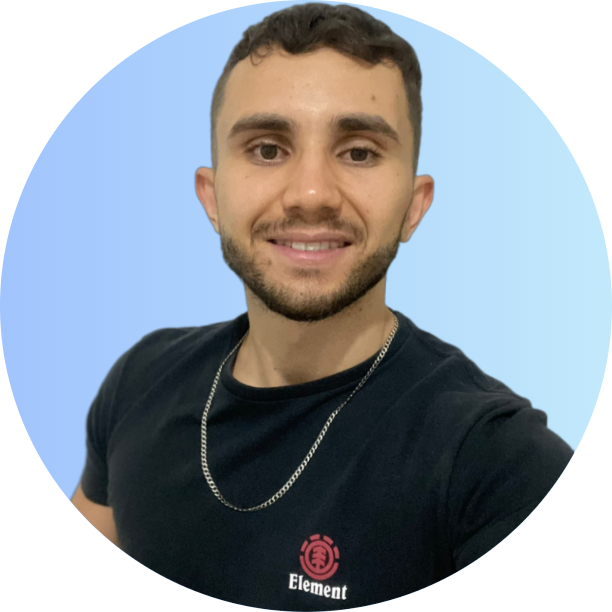
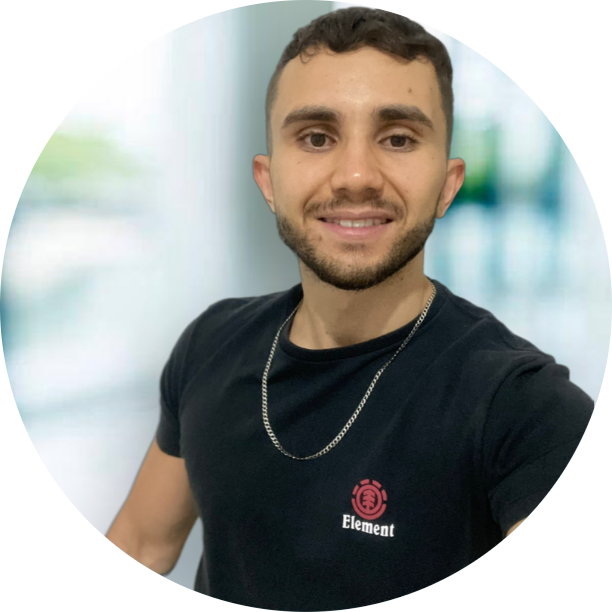
feat: adicionando animacoes e trocando imagens

diff --git a/styles.css b/styles.css
@@ -6,7 +6,7 @@
 
 :root {
   --text-color: white;
-  --bg-url: url("./assets/bg-mobile-black.jpg");
+  --bg-url: url("./assets/bg-mobile-dark.jpg");
   --stroke-color: rgba(255, 255, 255, 0.5);
   --surface-color: rgba(255, 255, 255, 0.5);
   --surface-color-hover: rgba(0, 0, 0, 0.02);
@@ -16,7 +16,7 @@
 
 .light {
   --text-color: black;
-  --bg-url: url("./assets/bg-mobile-white.jpg");
+  --bg-url: url("./assets/bg-mobile-light.jpg");
   --stroke-color: rgba(0, 0, 0, 0.5);
   --surface-color: rgba(0, 0, 0, 0.05);
   --surface-color-hover: rgba(0, 0, 0, 0.02);
@@ -30,6 +30,7 @@ body {
   background-position: top center;
   background-size: cover; */
   background: var(--bg-url) no-repeat top center/cover;
+  height: 100vh;
 }
 
 body * {
@@ -76,11 +77,16 @@ body * {
   left: 0;
   z-index: 1;
   transform: translateY(-50%);
+
+  animation: slide-back 0.4s;
 }
 
 .light #switch button {
-  right: 0;
-  left: initial;
+  animation: slide-in 0.4s forwards;
+}
+
+#switch button:hover {
+  outline: 8px solid var(--highlight-color);
 }
 
 #switch span {
@@ -153,4 +159,31 @@ footer {
   padding: 24px 0;
   text-align: center;
   font-size: 14px;
+}
+
+@media (min-width: 700px) {
+  :root {
+    --bg-url: url("./assets/bg-desktop-dark.jpg");
+  }
+  .light {
+    --bg-url: url("./assets/bg-desktop-light.jpg");
+  }
+}
+
+@keyframes slide-in {
+  from {
+    left: 0;
+  }
+  to {
+    left: 50%;
+  }
+}
+
+@keyframes slide-back {
+  from {
+    left: 50%;
+  }
+  to {
+    left: 0;
+  }
 }

diff --git a/index.html b/index.html
@@ -17,11 +17,11 @@
   <body>
     <div id="container">
       <div id="profile">
-        <img src="./assets/avatar-dark.jpeg"/ alt="avatar"/>
+        <img src="./assets/avatar-light.png"/ alt="avatar"/>
         <p>Erick piazza</p>
       </div>
       <div id="switch" onclick="toggleMode()">
-        <button onclick="toggleMode()"></button>
+        <button></button>
         <span></span>
       </div>
 
@@ -30,7 +30,9 @@
           <a href="https://github.com/erickpiazza" target="_blank">Github</a>
         </li>
         <li>
-          <a href="#">Meu Portfolio</a>
+          <a href="https://www.linkedin.com/in/erick-piazza/" target="_blank"
+            >Linkedin</a
+          >
         </li>
         <li>
           <a href="#">Meu Portfolio</a>
@@ -51,7 +53,7 @@
         ></a>
       </div>
 
-      <footer>Erick Fonseca Della Piazza</footer>
+      <footer>###</footer>
     </div>
 
     <script src="./script.js"></script>

diff --git a/script.js b/script.js
@@ -12,6 +12,6 @@ function toggleMode() {
   if (html.classList.contains("light")) {
     img.setAttribute("src", "./assets/avatar-light.png")
   } else {
-    img.setAttribute("src", "./assets/avatar-dark.jpeg")
+    img.setAttribute("src", "./assets/avatar-dark.png")
   }
 }
